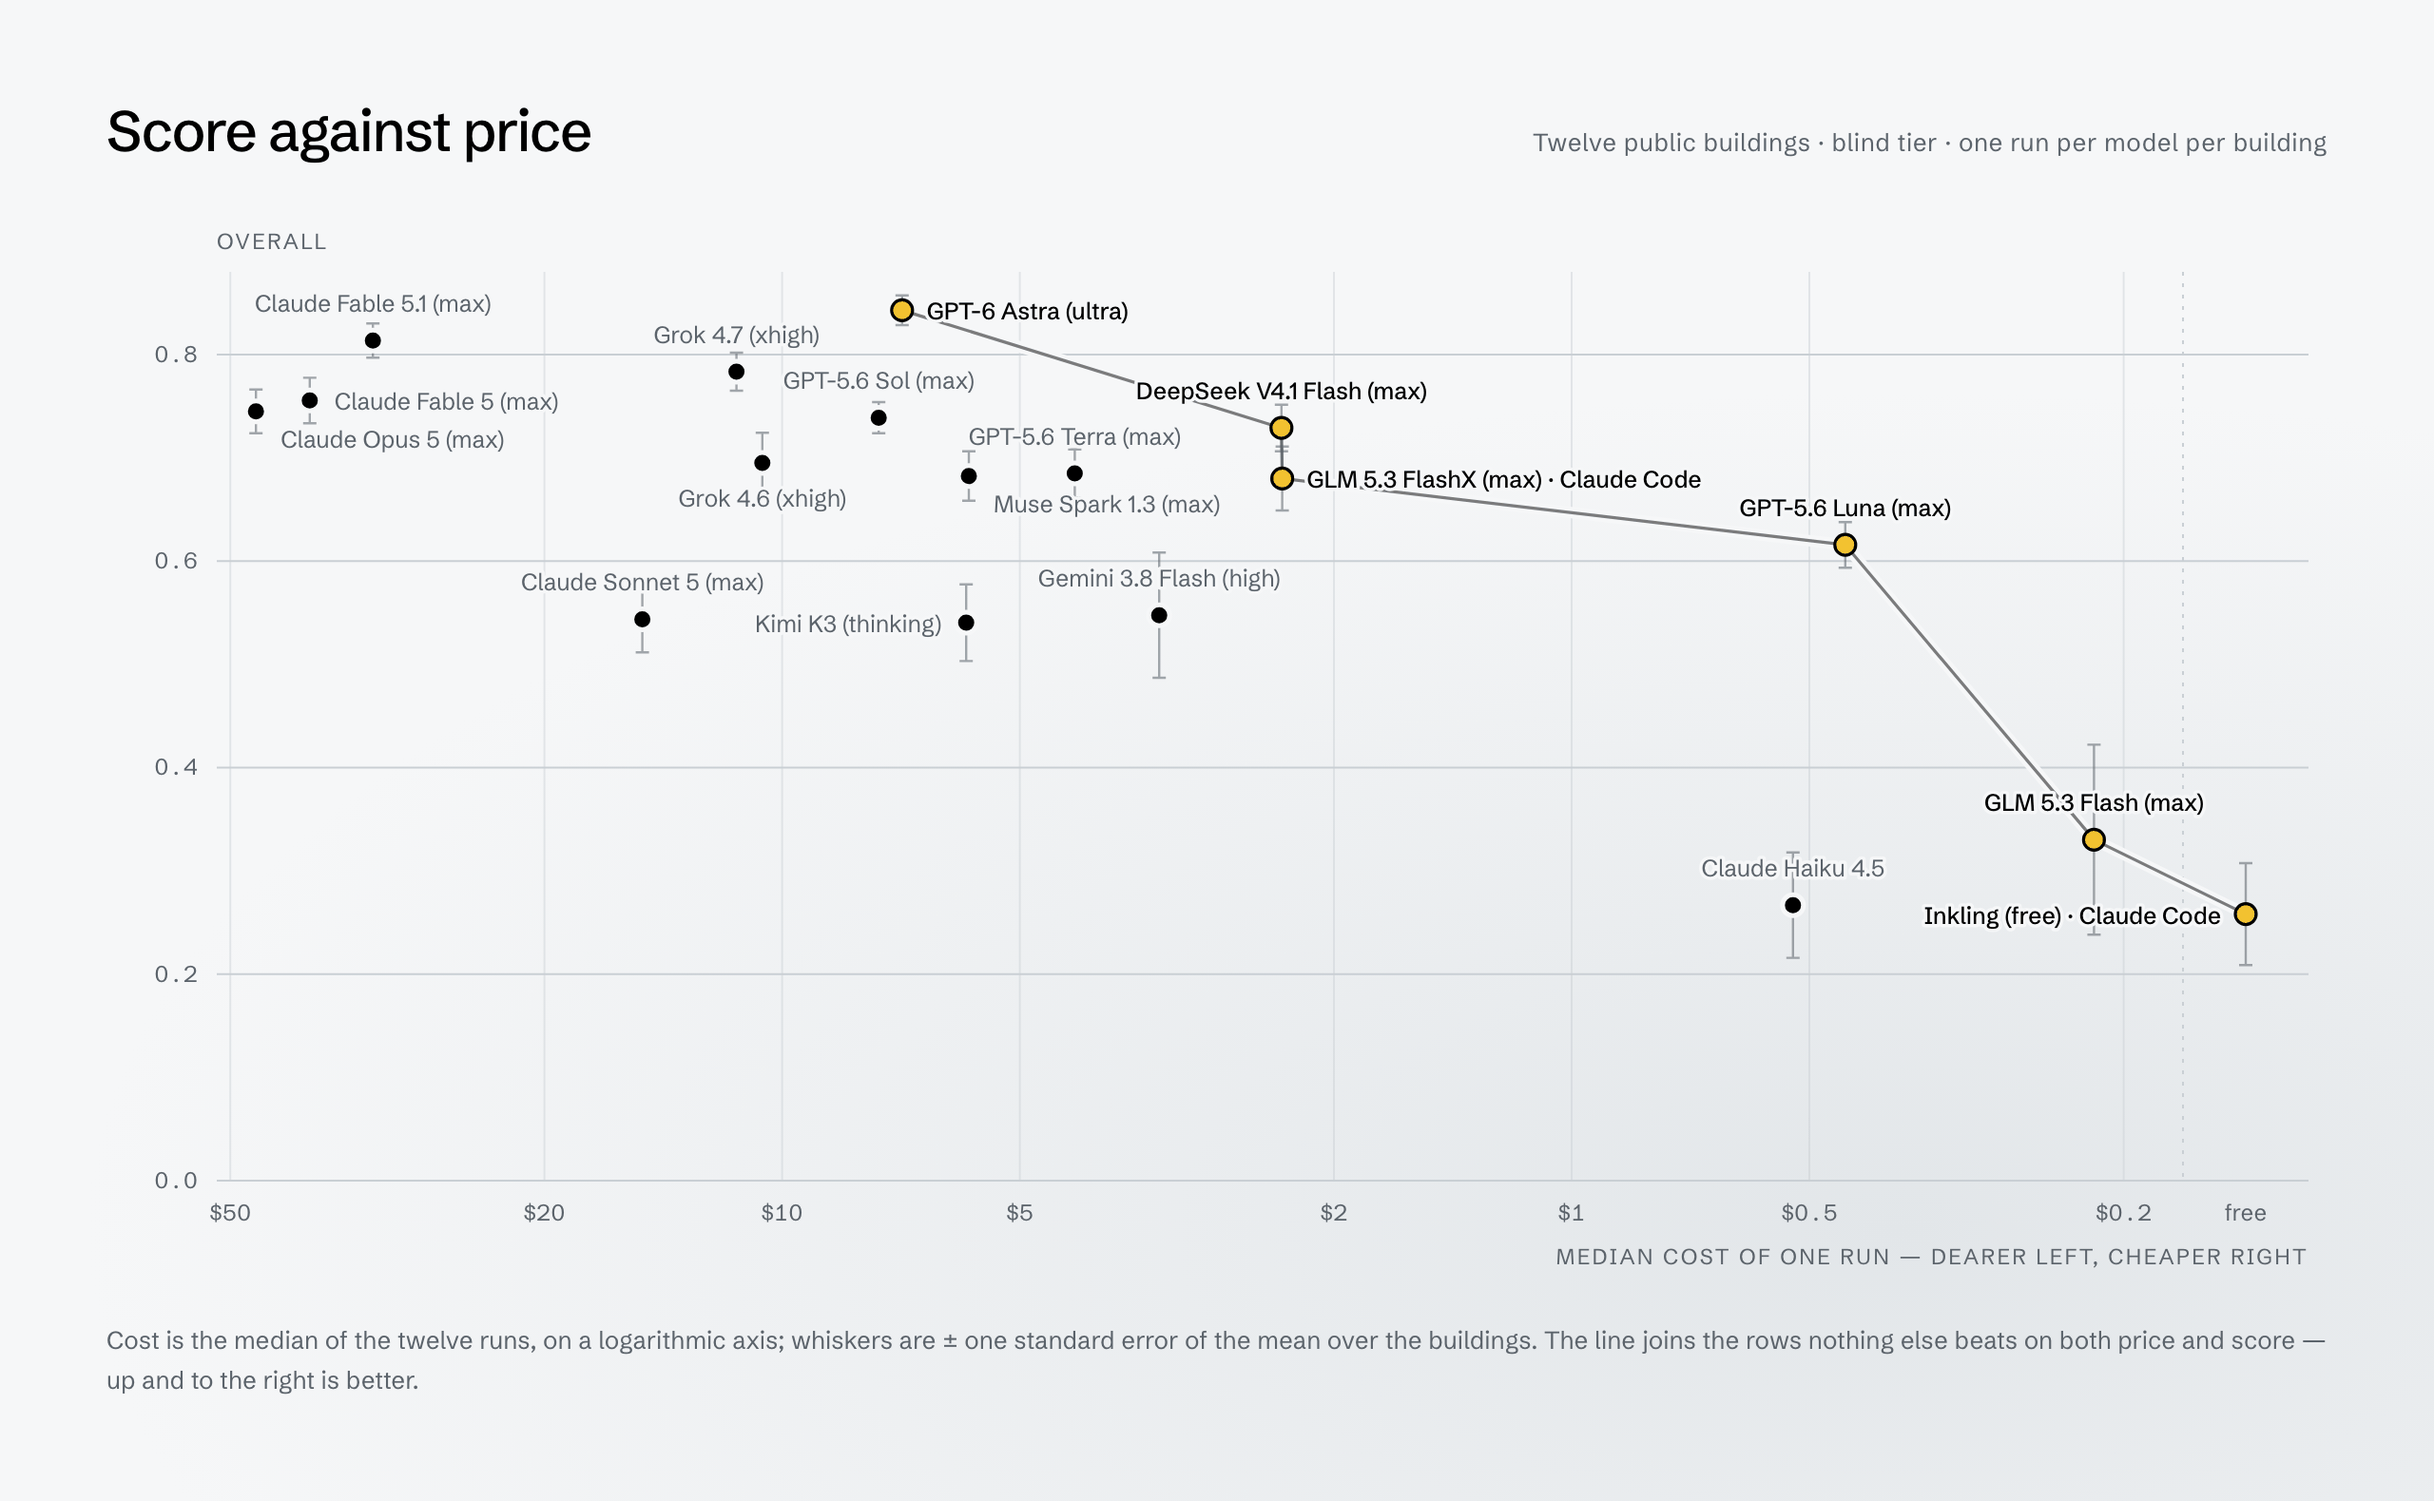
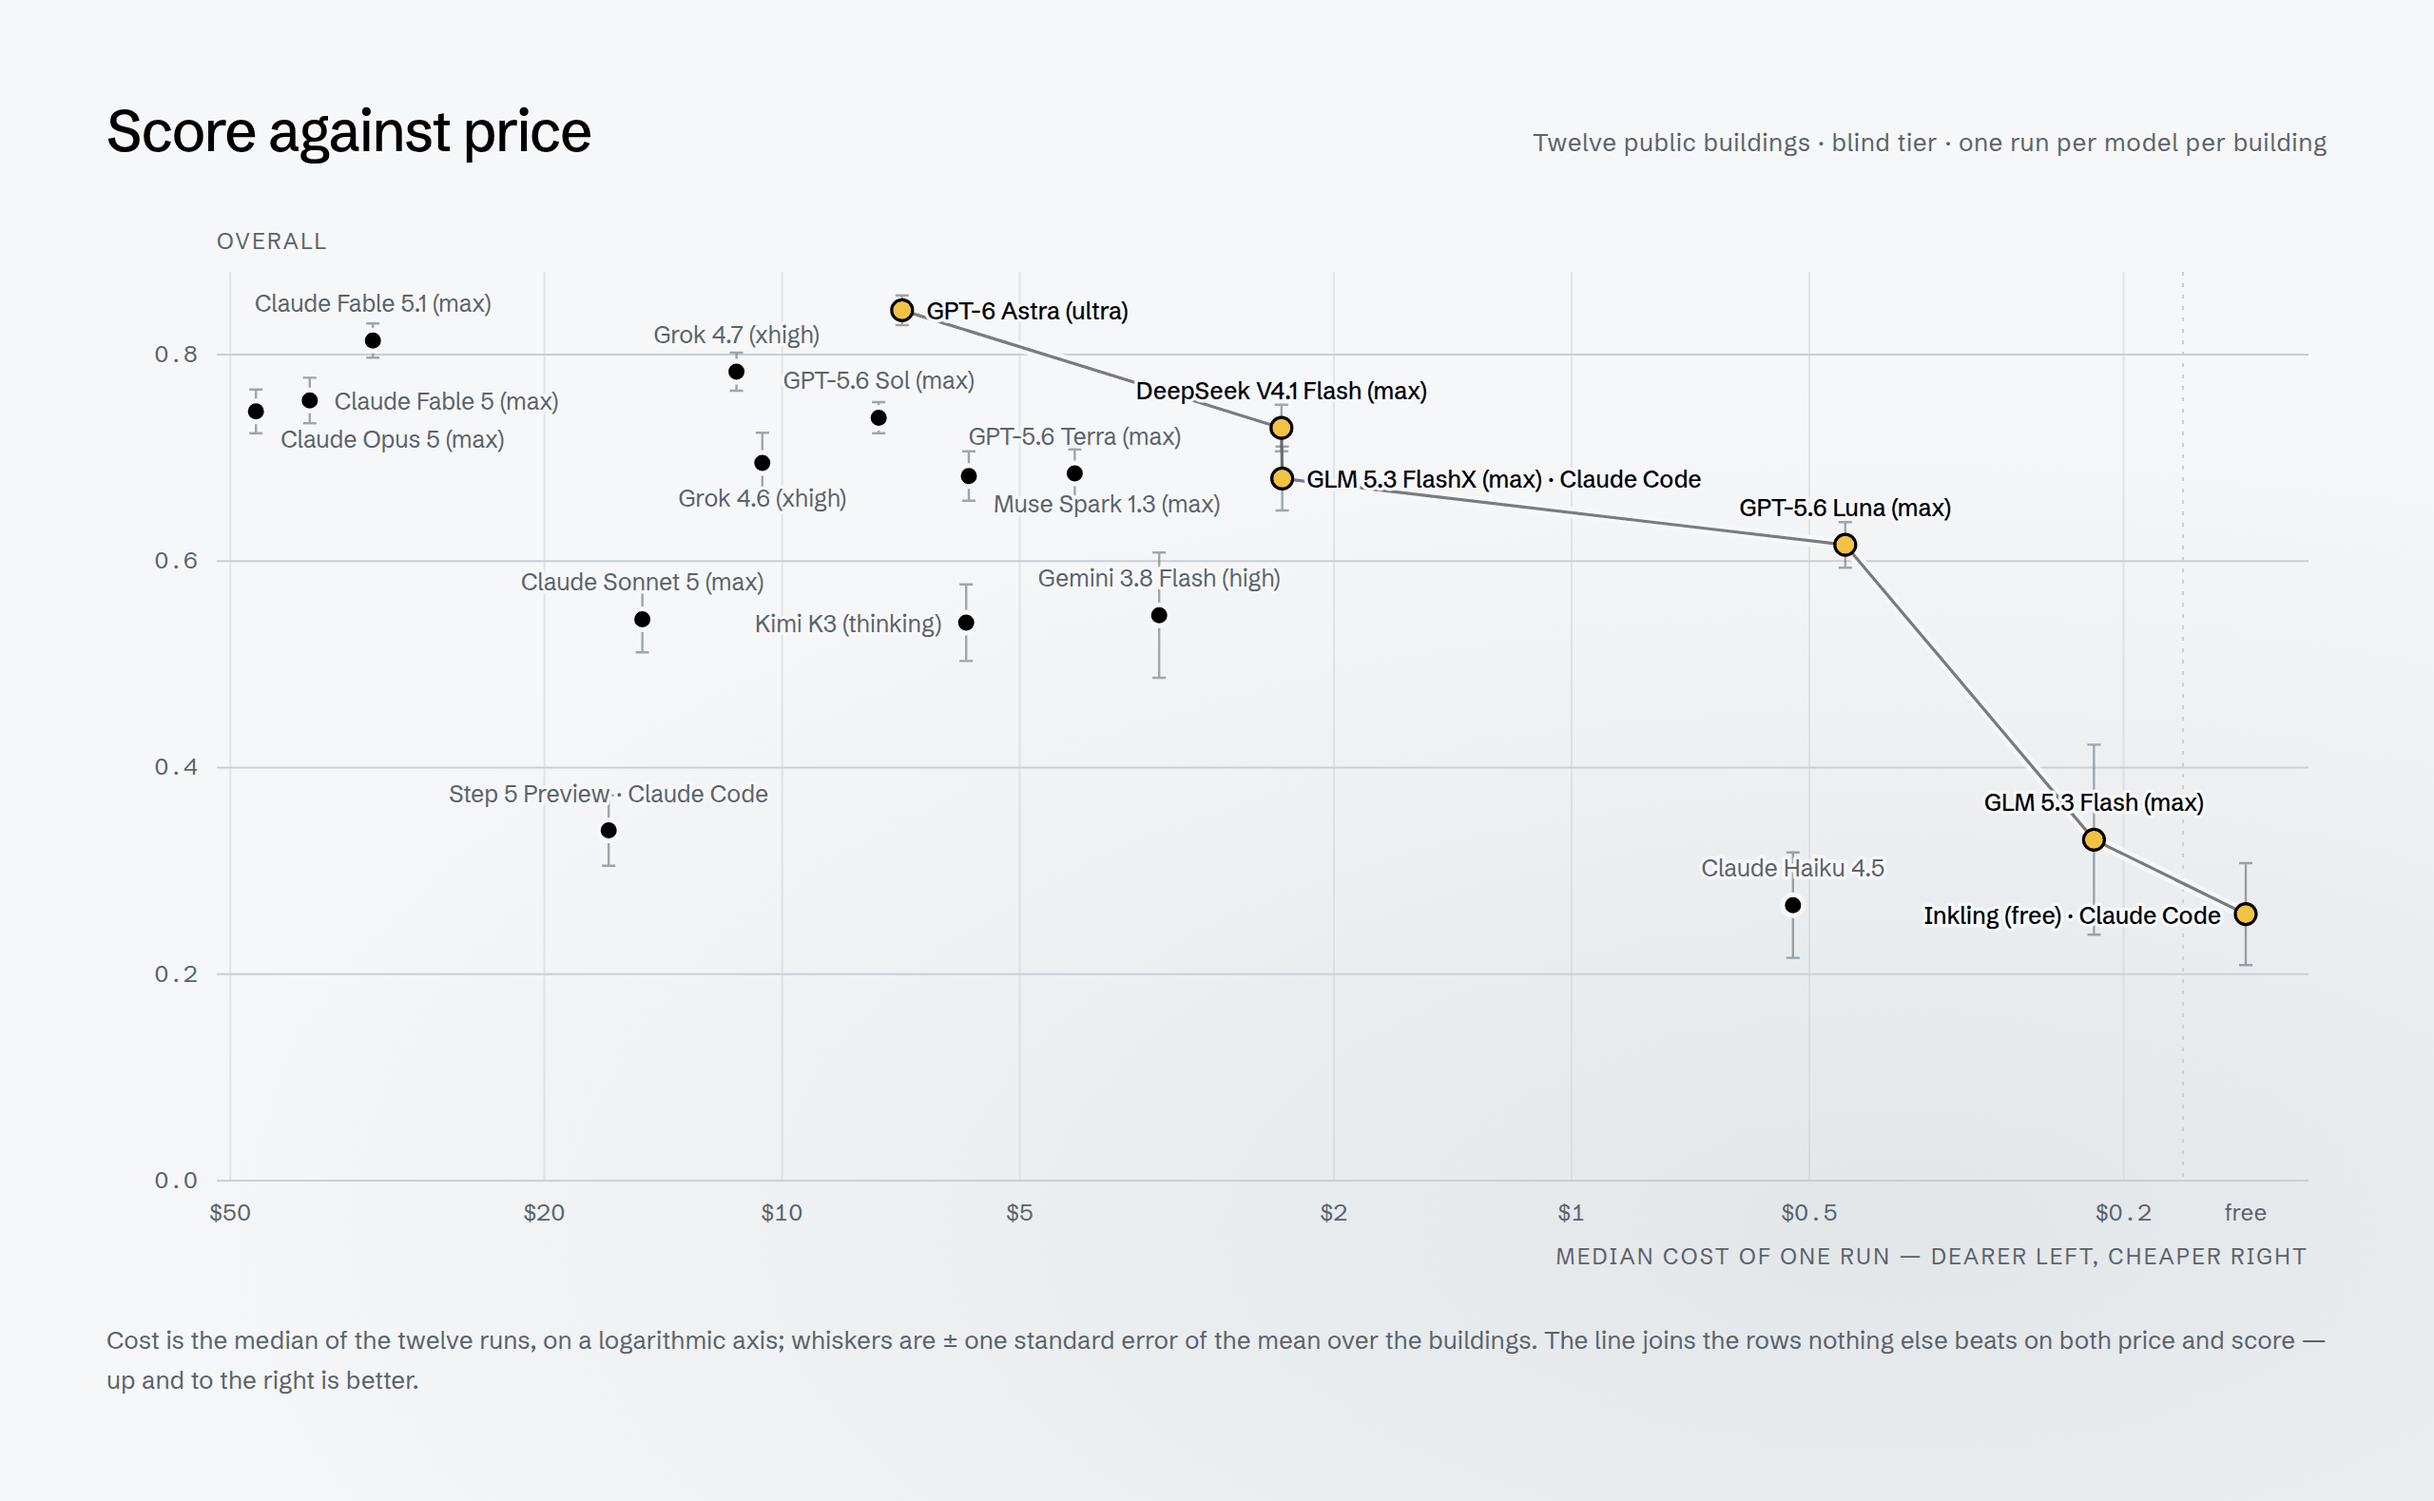
Redraw the board and price figures, and the price film
Step 5 Preview joins the board at sixteenth and arrives last in the film.
The film's font list gains Liberation Sans, Arial's metrics under a free
licence, so a machine without Arial draws the same layout rather than
falling through to DejaVu's wider glyphs.

diff --git a/docs/pareto_film.py b/docs/pareto_film.py
@@ -31,7 +31,8 @@ from harness import board                                         # noqa: E402
 
 OUT = ROOT / "docs" / "assets" / "pareto.gif"
 ARRIVALS = ["fable51max", "gpt-6-astra-ultra", "deepseek-v41-flash-claude-code",
-            "z-ai-glm-5.3-flashx-claude-code", "grok47xhigh"]
+            "z-ai-glm-5.3-flashx-claude-code", "grok47xhigh",
+            "step-5-preview-claude-code"]
 
 FPS = 12
 W, H, DPI = 1920, 1080, 100
@@ -43,7 +44,9 @@ VENDOR = [("fable", "#d9765f"), ("opus", "#d9765f"), ("sonnet", "#d9765f"),
 X_TICKS = [50, 20, 10, 5, 2, 1, 0.5, 0.2]
 Y_MAX = 0.96
 
-plt.rcParams["font.family"] = ["Arial", "DejaVu Sans"]
+# Liberation Sans is Arial's metrics under a free licence: without it a Linux
+# box falls through to DejaVu, whose wider glyphs push labels into each other.
+plt.rcParams["font.family"] = ["Arial", "Liberation Sans", "DejaVu Sans"]
 
 
 def short(label: str) -> str:
